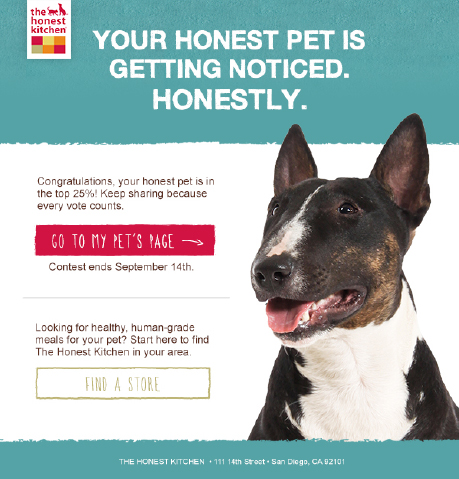
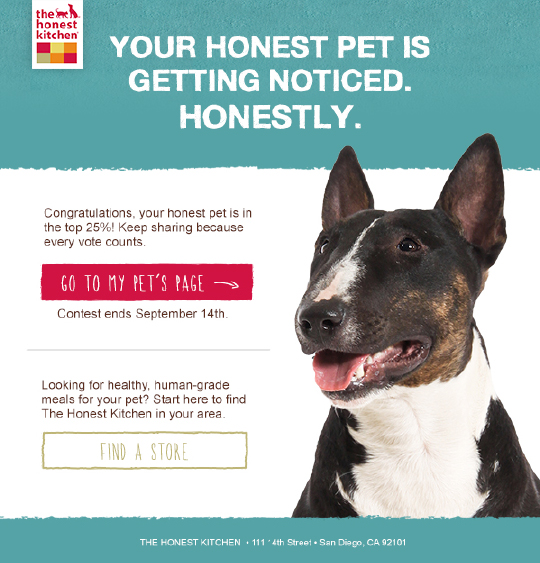
Finishing up index page edits

diff --git a/style.css b/style.css
@@ -867,36 +867,34 @@ footer {
         opacity: 1; } }
 
 .honestkitchen {
-  background-size: 114%;
-  background-position: -13px 0px;
-  background-color: pink;
+  background-size: 405px;
+  background-position: 0px -18px;
   float: right;
   width: 42%;
   height: 220px;
-  background-image: url(images/sprites_thkdesktop.png);
-  /*@media (max-width: 1150px) {
-    background-size: 634%;
-    padding-bottom: 38%;
-    background-position: 6% 96%;
-  }
-
+  background-image: url(images/sprites_thkdesktop.png); }
+  @media (max-width: 1150px) {
+    .honestkitchen {
+      background-size: 447px;
+      background-position: -70px -16px;
+      height: 240px; } }
   @media (max-width: 900px) {
-    background-size: 290%;
-    padding-bottom: 39%;
-    background-position: 6% 96%;
-  }
-
-  @media (max-width: 600px) {
-    background-size: 310%;
-    padding-bottom: 48%;
-    background-position: 9% 96%;
-    width: 100% !important;
-  }*/ }
+    .honestkitchen {
+      background-image: url(images/sprites_thkmobile.png);
+      height: 235px;
+      background-size: 470px;
+      background-repeat: no-repeat;
+      background-position: center 0px;
+      width: 100% !important; } }
+  @media (max-width: 500px) {
+    .honestkitchen {
+      background-size: contain;
+      height: 170px; } }
   .honestkitchen span {
-    background-size: 100%;
-    background-position: 0px -215px;
+    background-size: 368px;
+    background-position: 0px -237px;
     background-repeat: no-repeat;
-    width: 34%;
+    width: 32%;
     background-color: #f8f8f8;
     height: 220px;
     position: absolute;
@@ -906,67 +904,19 @@ footer {
     -moz-transition: opacity .6s ease;
     -o-transition: opacity .6s ease;
     transition: opacity .6s ease; }
-    .honestkitchen span:hover {
-      opacity: 1; }
-
-    /*width:100%;
-    height: 100%;
-    position:absolute;
-    background-image:url(images/sprites_thkdesktop.png);
-    background-position: 158% 92%;
-    background-size: 486%;
-    opacity: 0;
-    -webkit-transition: opacity .6s ease;
-    -moz-transition: opacity .6s ease;
-    -o-transition: opacity .6s ease;
-    transition: opacity .6s ease;
-    background-color: rgb(248,248,248);
-
     @media (max-width: 1150px) {
-      background-size: 656%;
-      background-position: 151% 92%;
-    }
+      .honestkitchen span {
+        background-size: 309px;
+        background-position: 8px -177px;
+        height: 271px; } }
+    @media (max-width: 950px) {
+      .honestkitchen span {
+        background-size: 286px;
+        background-position: -2px -165px; } }
+    @media (min-width: 900px) {
+      .honestkitchen span:hover {
+        opacity: 1; } }
 
-    &:hover {
-      @media (min-width: 900px) {
-      opacity: 1;
-      }
-    }
-
-    &.imgRightalt {
-    width: 44%;
-    float:right;
-    display:block;
-    background-image:url(images/sprites_thkdesktop.png);
-    height:0;
-    background-repeat:no-repeat;
-    position:relative;
-    top: -30px;
-    background-color:lime;
-
-    @media (max-width: 900px) {
-      top: 0;
-      float:none;
-      margin: auto;
-      background-image:url(images/sprites_thkdesktop.png);
-      background-color:pink;
-      width: 85%;
-    }*/
-  /*background-color:pink;
-  width: 44%;
-  height: 182px;
-  background-image: url(images/sprites_thkdesktop.png);
-  float:right;
-  background-size: cover;
-  opacity: .1;
-  -webkit-transition: opacity .6s ease;
-  -moz-transition: opacity .6s ease;
-  -o-transition: opacity .6s ease;
-  transition: opacity .6s ease;
-
-  &:hover {
-    opacity: 1;
-  }*/
 /* Sub Pages */
 .subKahs img {
   display: block;

diff --git a/style.scss b/style.scss
@@ -1104,38 +1104,38 @@ footer {
 }
 
 .honestkitchen {
-  background-size: 114%;
-  background-position: -13px 0px;
-  background-color:pink;
+  background-size: 405px;
+  background-position: 0px -18px;
   float:right;
   width: 42%;
   height: 220px;
   background-image: url(images/sprites_thkdesktop.png);
 
-  /*@media (max-width: 1150px) {
-    background-size: 634%;
-    padding-bottom: 38%;
-    background-position: 6% 96%;
+  @media (max-width: 1150px) {
+    background-size: 447px;
+    background-position: -70px -16px;
+    height: 240px;
   }
 
   @media (max-width: 900px) {
-    background-size: 290%;
-    padding-bottom: 39%;
-    background-position: 6% 96%;
+    background-image: url(images/sprites_thkmobile.png);
+    height: 235px;
+    background-size: 470px;
+    background-repeat: no-repeat;
+    background-position: center 0px;
+    width: 100% !important;
   }
 
-  @media (max-width: 600px) {
-    background-size: 310%;
-    padding-bottom: 48%;
-    background-position: 9% 96%;
-    width: 100% !important;
-  }*/
+  @media (max-width: 500px) {
+    background-size: contain;
+    height: 170px;
+  }
 
   span {
-    background-size: 100%;
-    background-position: 0px -215px;
+    background-size: 368px;
+    background-position: 0px -237px;
     background-repeat: no-repeat;
-    width: 34%;
+    width: 32%;
     background-color: rgb(248,248,248);
     height: 220px;
     position:absolute;
@@ -1146,74 +1146,26 @@ footer {
     -o-transition: opacity .6s ease;
     transition: opacity .6s ease;
 
-    &:hover {
-      opacity: 1;
-    }
-  }
-}
-
-    /*width:100%;
-    height: 100%;
-    position:absolute;
-    background-image:url(images/sprites_thkdesktop.png);
-    background-position: 158% 92%;
-    background-size: 486%;
-    opacity: 0;
-    -webkit-transition: opacity .6s ease;
-    -moz-transition: opacity .6s ease;
-    -o-transition: opacity .6s ease;
-    transition: opacity .6s ease;
-    background-color: rgb(248,248,248);
-
     @media (max-width: 1150px) {
-      background-size: 656%;
-      background-position: 151% 92%;
+      background-size: 309px;
+      background-position: 8px -177px;
+      height: 271px;
     }
+
+    @media (max-width: 950px) {
+      background-size: 286px;
+      background-position: -2px -165px;
+    }
+
 
     &:hover {
       @media (min-width: 900px) {
       opacity: 1;
       }
     }
+  }
+}
 
-    &.imgRightalt {
-    width: 44%;
-    float:right;
-    display:block;
-    background-image:url(images/sprites_thkdesktop.png);
-    height:0;
-    background-repeat:no-repeat;
-    position:relative;
-    top: -30px;
-    background-color:lime;
-
-    @media (max-width: 900px) {
-      top: 0;
-      float:none;
-      margin: auto;
-      background-image:url(images/sprites_thkdesktop.png);
-      background-color:pink;
-      width: 85%;
-    }*/
-  
-
-
-  
-  /*background-color:pink;
-  width: 44%;
-  height: 182px;
-  background-image: url(images/sprites_thkdesktop.png);
-  float:right;
-  background-size: cover;
-  opacity: .1;
-  -webkit-transition: opacity .6s ease;
-  -moz-transition: opacity .6s ease;
-  -o-transition: opacity .6s ease;
-  transition: opacity .6s ease;
-
-  &:hover {
-    opacity: 1;
-  }*/
 
 /* Sub Pages */
 

diff --git a/index.html b/index.html
@@ -79,7 +79,7 @@
 
 <!------------------>
 	<div class="project">
-		<a href="thehonestkitchen#top">
+		<a href="thehonestkitchen.html#top">
 			<div class="imgRightalt honestkitchen"><span></span></div>
 		</a>
 	
@@ -87,7 +87,7 @@
 			<h1>2016 Honest Pets Calendar</h1>
 			<h2>Design + Code</h2>
 			<p>Site Design <span class="bluebullet">&bull;</span> SVG Animation <span class="bluebullet">&bull;</span> Email Design &amp; Code</p>
-			<p>As an interactive designer at Red Tettemer O'Connell &amp; Partners, I worked on The Honest Kitchen's 2016 Honest Pets Calendar Campaign. I was responsible for various design tasks as well as a few creative embelishes for the site.<a href="thehonestkitchen.html#top">{Read More}</a></p>
+			<p>As an interactive designer at Red Tettemer O'Connell &amp; Partners, I worked on The Honest Kitchen's 2016 Honest Pets Calendar Campaign. I was responsible for various design tasks as well as a few creative embelishes for the site. <a href="thehonestkitchen.html#top">{Read More}</a></p>
 		</div>
 	</div>
 <!------------------>
